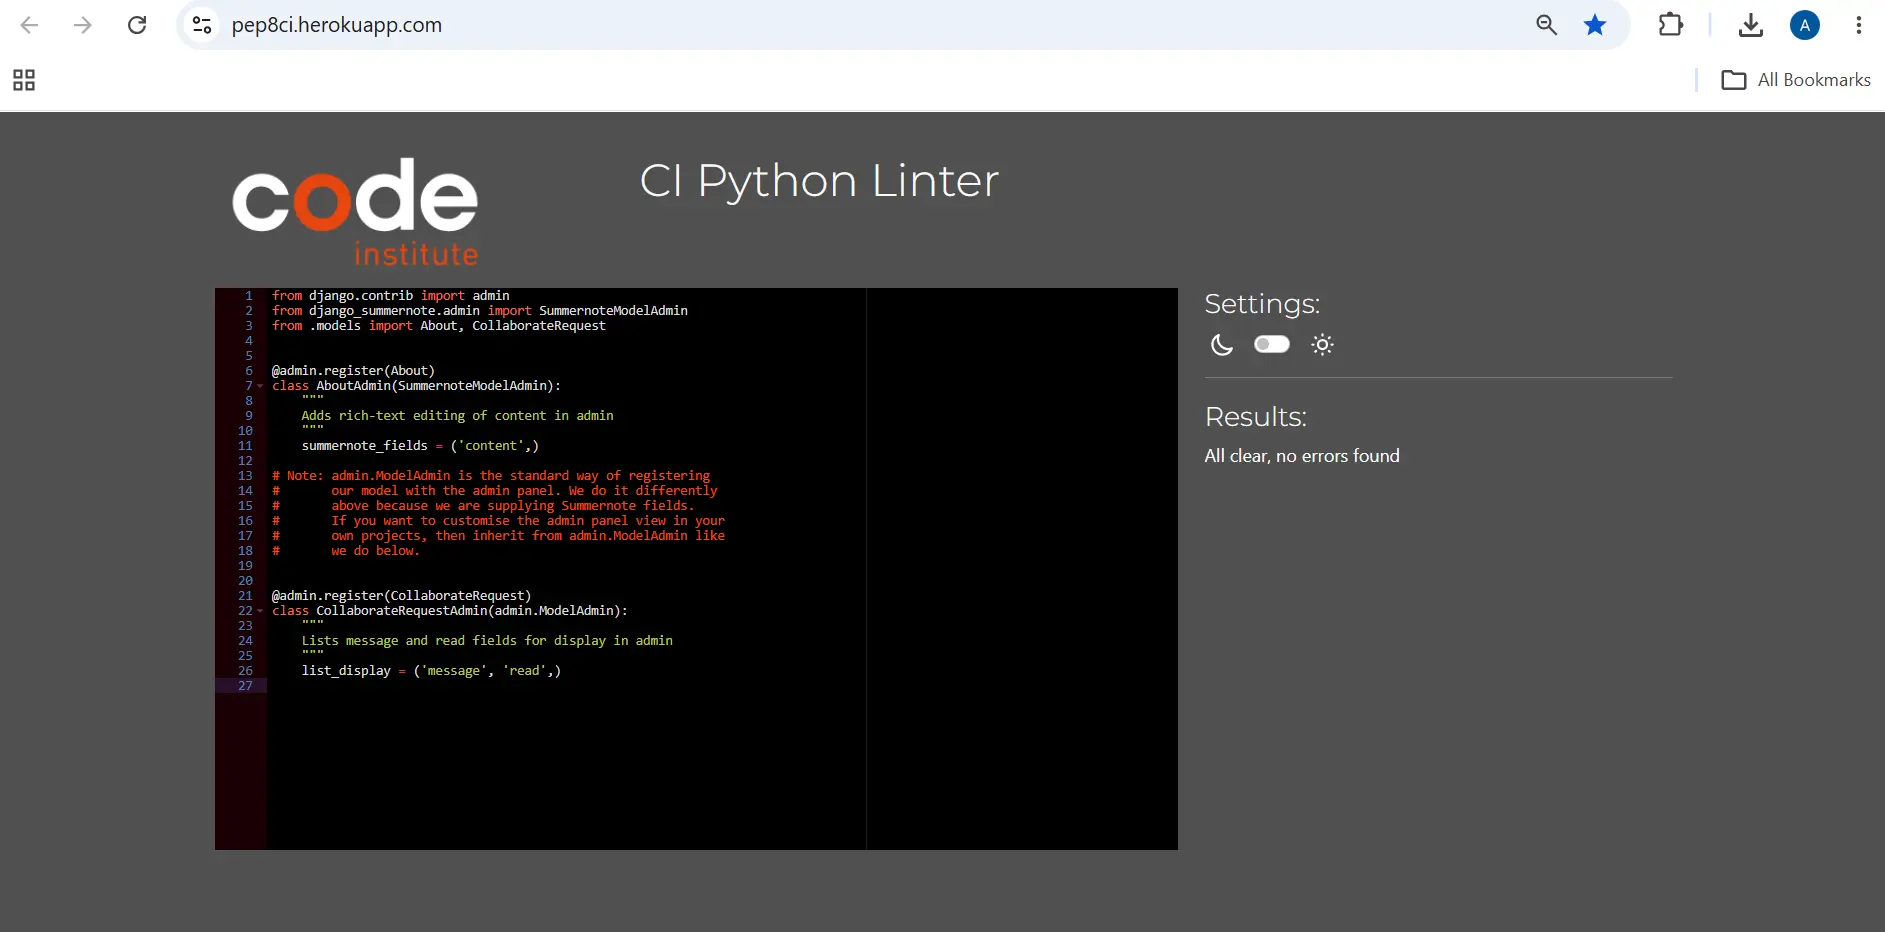
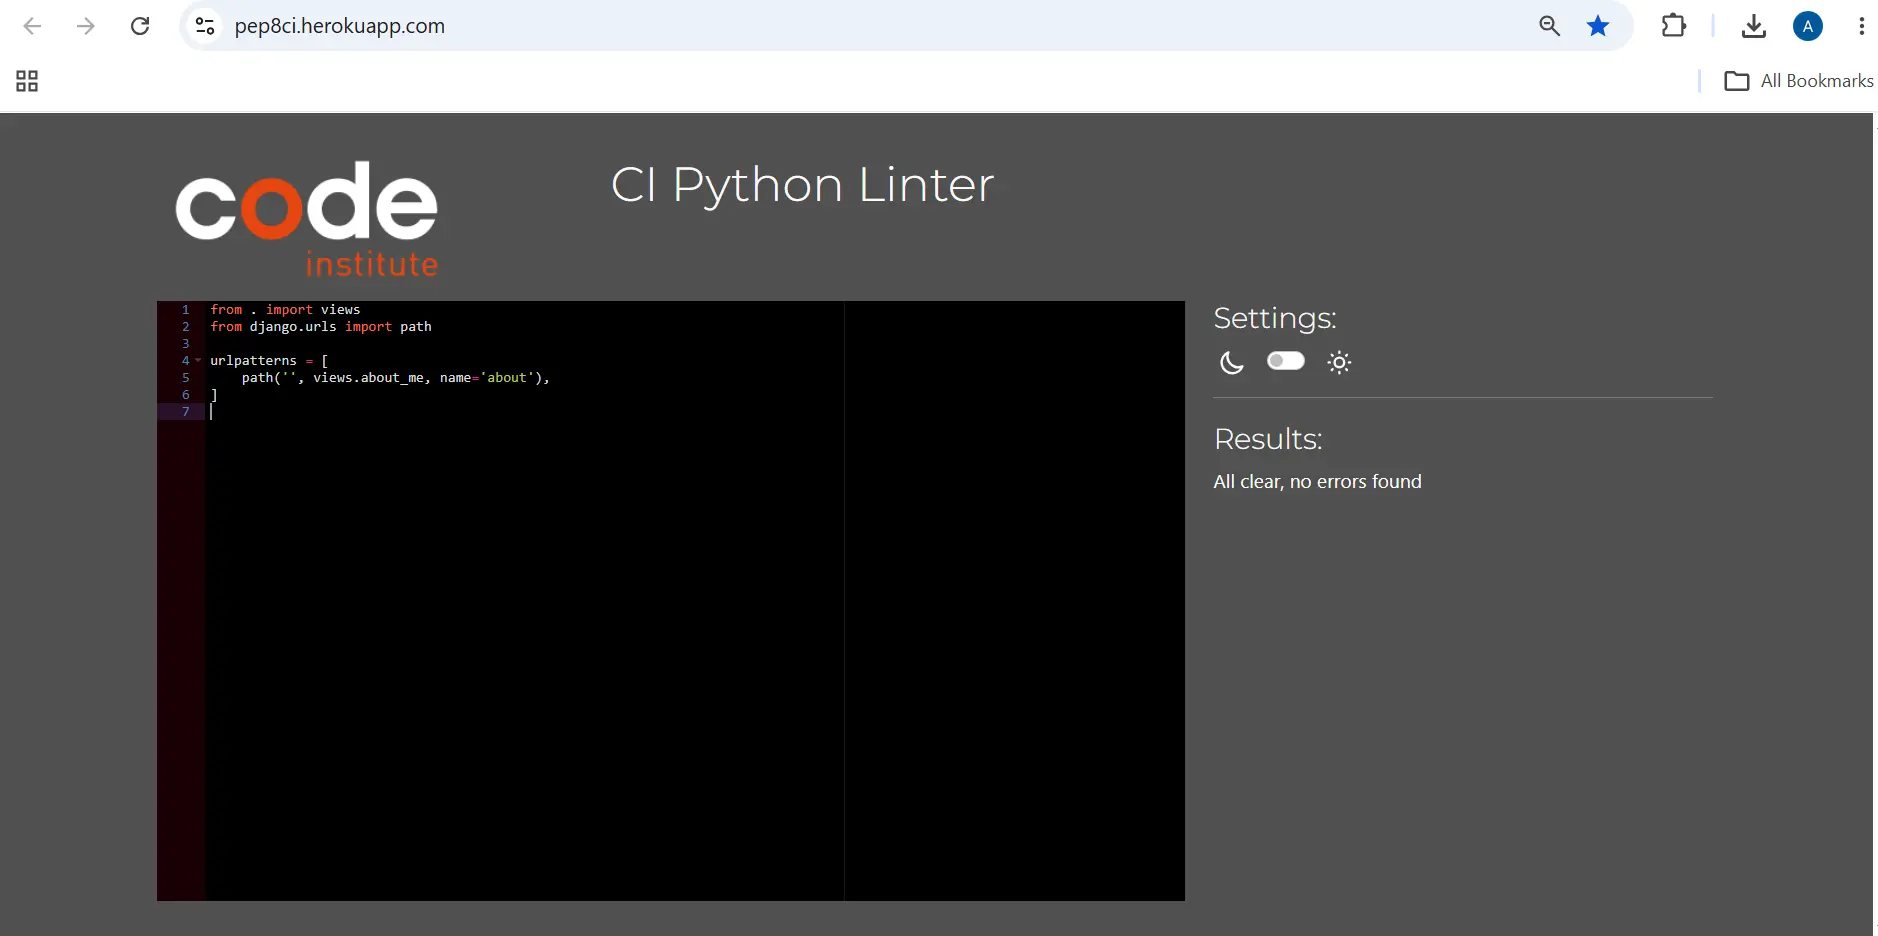
Update Code Validation

diff --git a/about/models.py b/about/models.py
@@ -14,7 +14,7 @@ class About(models.Model):
     content = models.TextField()
 
     def __str__(self):
-        return self.title   # the __str__ magic method is added to the model to make sure it returns the title
+        return self.title  # the __str__ magic method is added to the model to make sure it returns the title
 
 
 class CollaborateRequest(models.Model):
@@ -27,5 +27,4 @@ class CollaborateRequest(models.Model):
     read = models.BooleanField(default=False)
 
     def __str__(self):
-        return f"Collaboration request from {self.name}"   
-                                
+        return f"Collaboration request from {self.name}"

diff --git a/about/forms.py b/about/forms.py
@@ -4,7 +4,7 @@ from .models import CollaborateRequest
 
 class CollaborateForm(forms.ModelForm):
     """
-    Form class for users to request a collaboration 
+    Form class for users to request a collaboration
     """
     class Meta:
         """